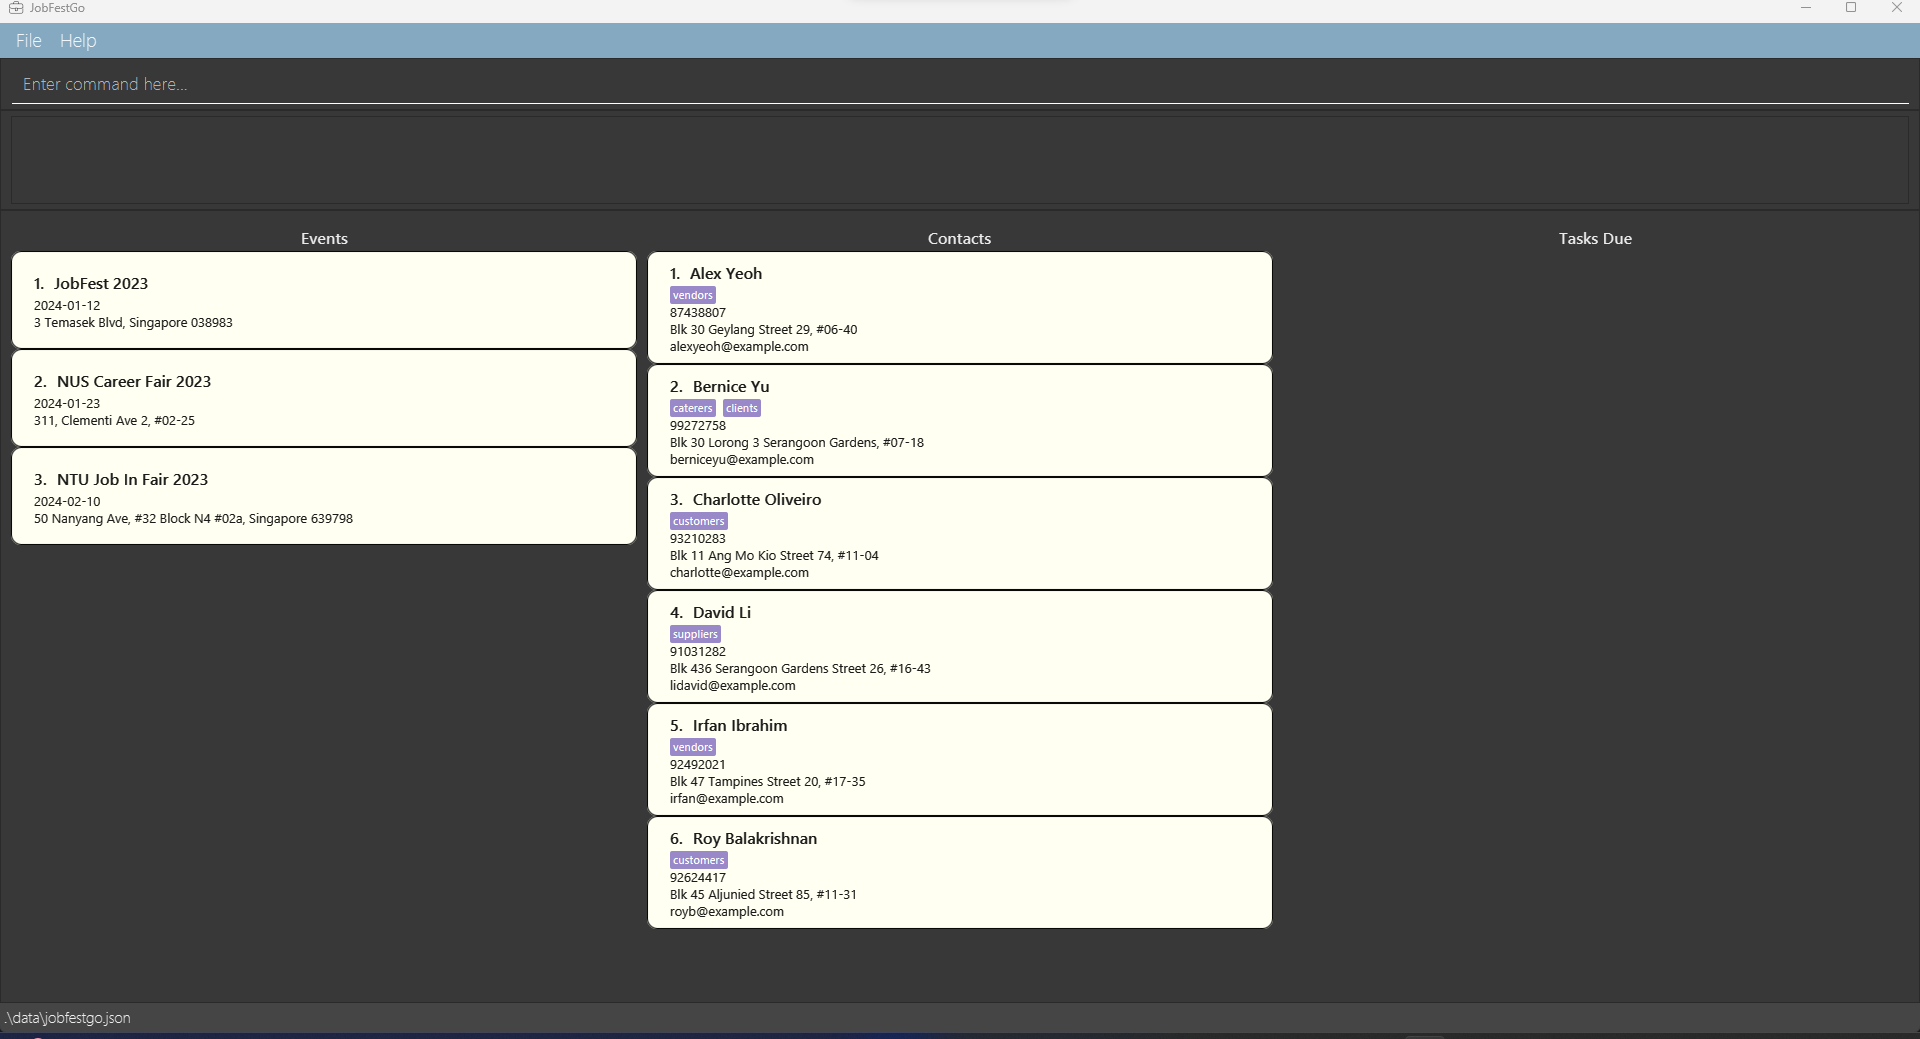
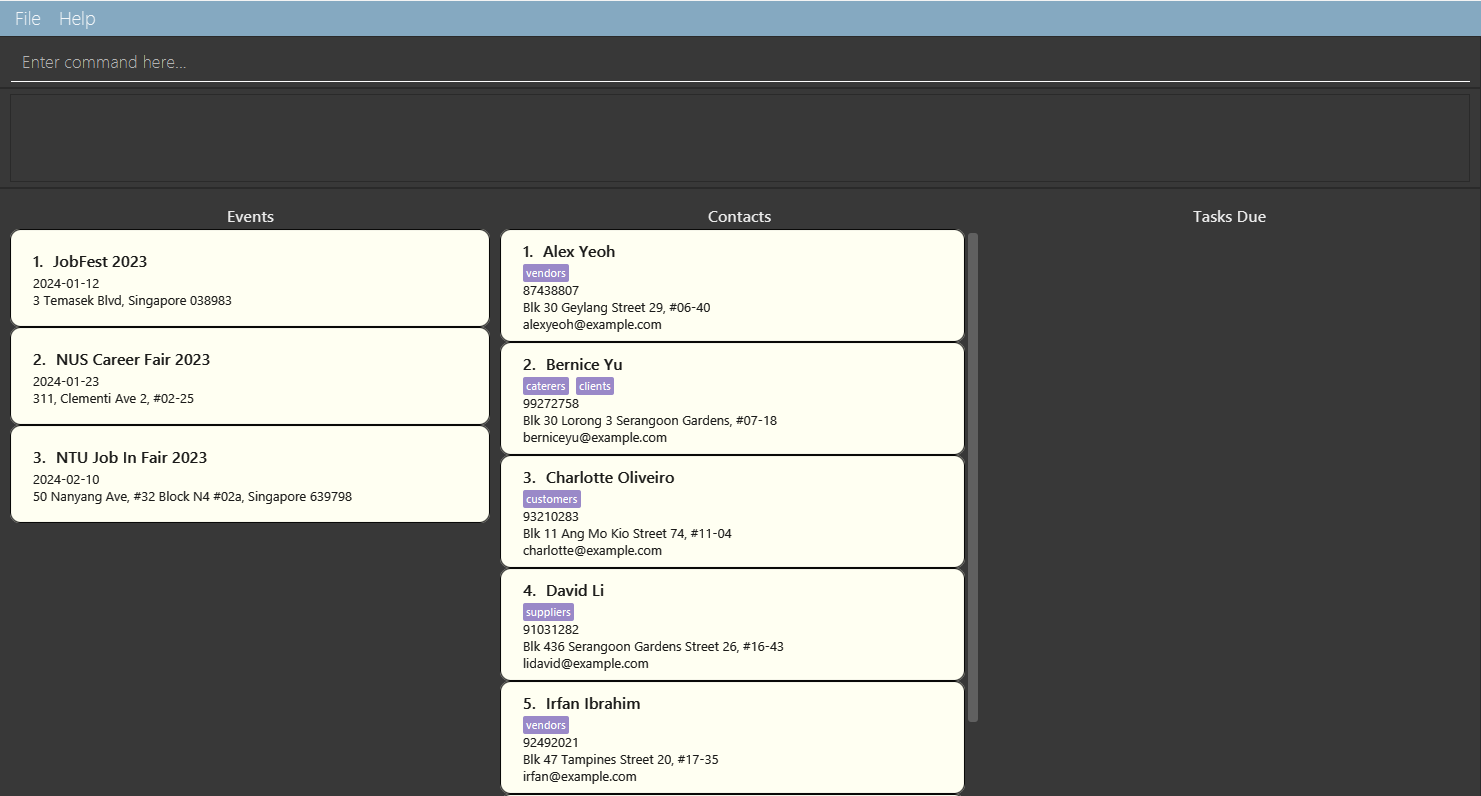
Update dimensions for JobFestGo

diff --git a/components/projects/jobfestgo/JobFestGoCard.tsx b/components/projects/jobfestgo/JobFestGoCard.tsx
@@ -19,7 +19,7 @@ function JobFestGoCard() {
         className="flex justify-center align-center space-x-4 p-6"
       >
         <CardMedia
-          sx={{ width: 2550, height: "auto", objectFit: "contain", borderRadius: "10px" }}
+          sx={{ width: 2250, height: "auto", objectFit: "contain", borderRadius: "10px" }}
           image="projects/jobfestgo.png"
           title="JobFestGo"
         />
